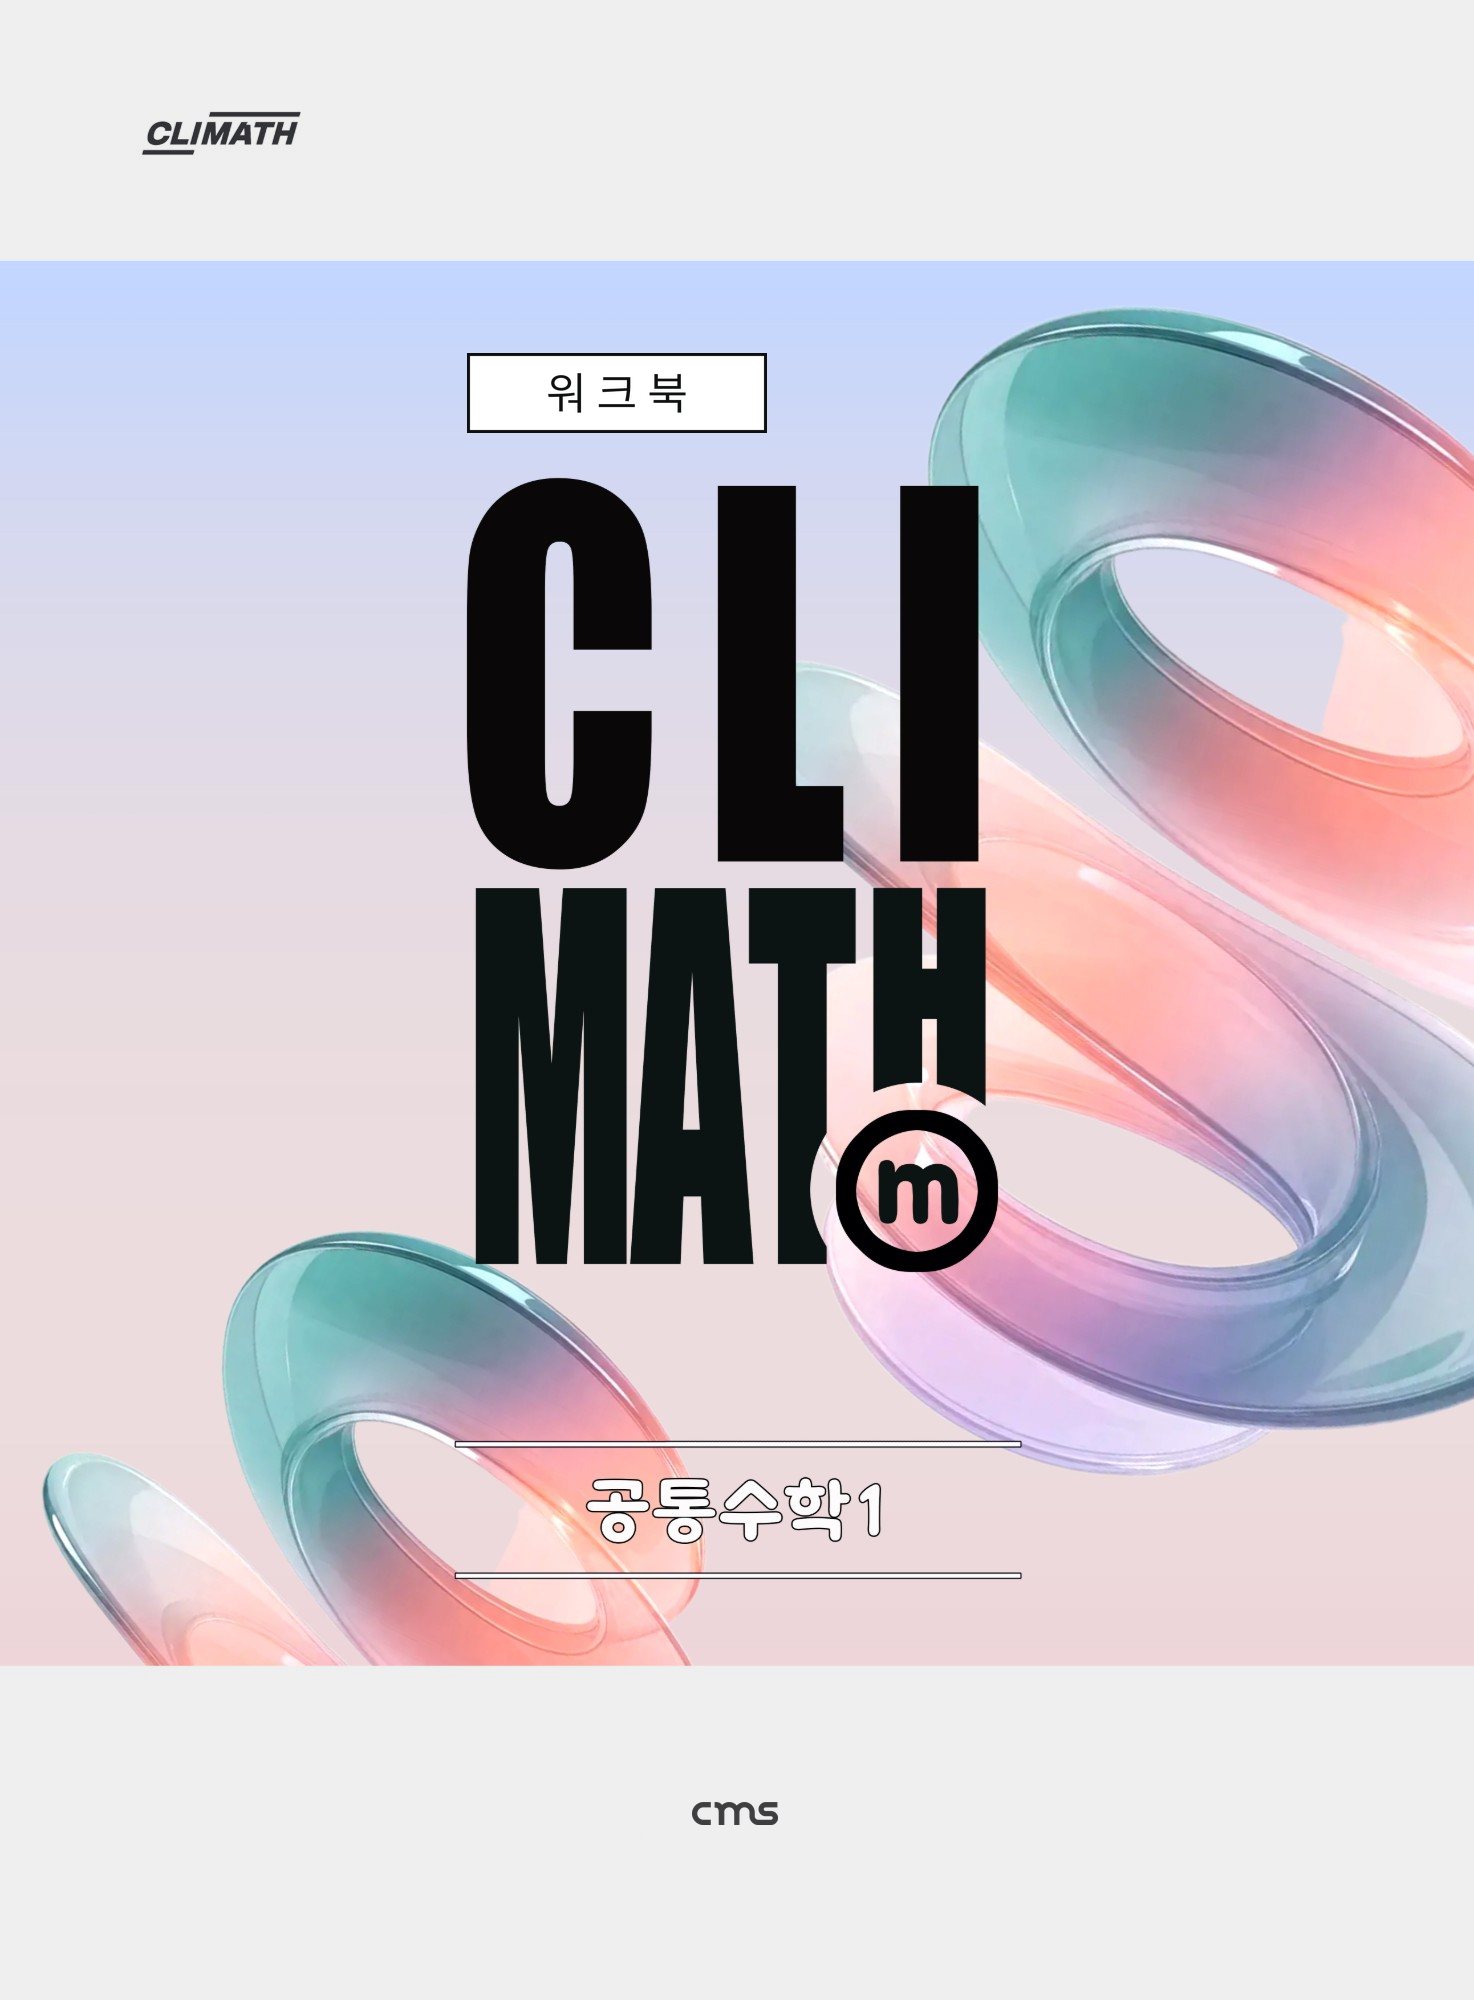
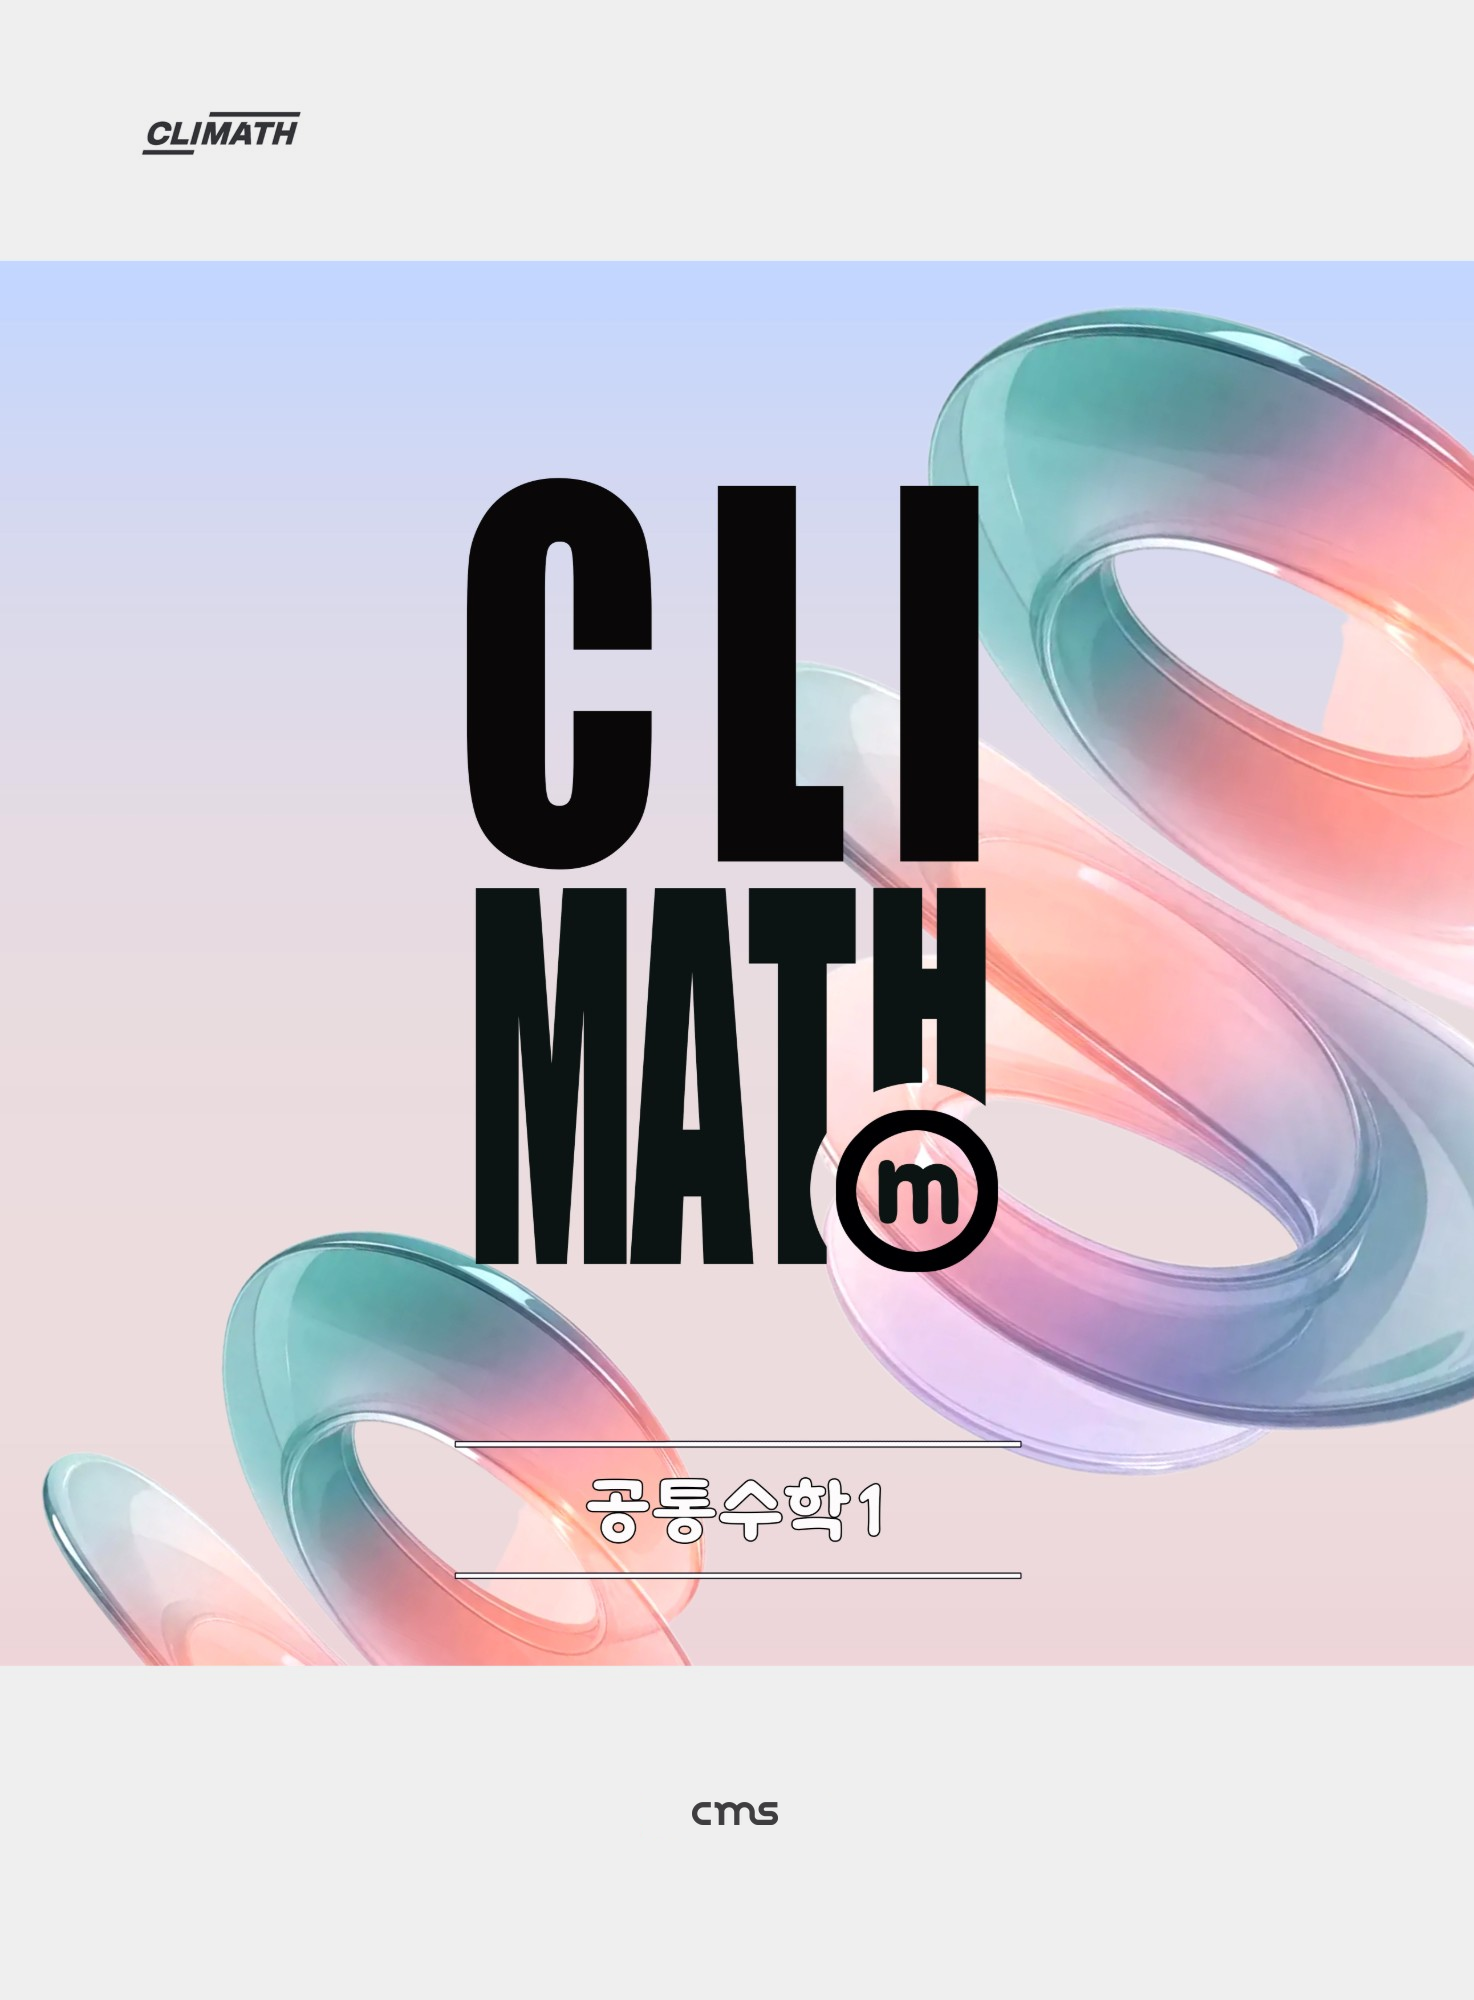
CLIMATH(m) 공통수학1 워크북 앞표지: 워크북 상자 뺌(책등은 그대로)
Claude-Session: https://claude.ai/code/session_014WGsHSxW1TsHk3SpmxydRw

Changed region(s): [[0.3121, 0.155, 0.5305, 0.217]]

diff --git a/유형문제집/도구/cover/climath_cover_m_wb.py b/유형문제집/도구/cover/climath_cover_m_wb.py
@@ -3,7 +3,7 @@
 python climath_cover_m_wb.py <표지 폴더> <원본 폴더> <Pretendard 폴더>
 - 사용자: 'CLIMATh(m) 공통수학1 워크북 표지 만들어줘'.
 - CLIMATH(m) 공통수학1 표지(앞표지·책등·원본 뒤표지)를 그대로 쓰고, CLIMATH(c) 워크북 표지(climath_cover_series.py)와 같은 표시를 더함:
-  · 앞표지: 'CLI' 제목 위(왼쪽 끝 맞춤)에 '워크북' 상자 — (c) 워크북 그림의 상자처럼 흰 바탕·검은 가는 테두리·검은 글자(Pretendard Regular, 글자 사이 띄움).
+  · 앞표지: (처음엔 'CLI' 위에 '워크북' 상자를 넣었으나 2026-11-26 사용자 '앞표지에 워크북 표시 없애, 책등은 남겨'로 뺌) — (m) 앞표지 그대로 + 종이색.
   · 책등: ⓜ 그대로, 그 아래 둥근 네모 상자 안 '워크북'((c) 워크북 책등과 같은 크기·자리).
   · 뒤표지: 원본 뒤표지(오른쪽 색 띠 = (m) 그라데이션) 그대로.
   · 세 장 모두 색 띠 밖 흰 종이를 #F0F0F0(×240/255)로 — (c) 워크북과 같음.
@@ -58,10 +58,10 @@ ink = np.maximum(supersample(draw_line, BW, BH), supersample(draw_txt, BW, BH))
 reg = a[by0:by0 + BH, X0:X0 + BW]
 reg = reg * (1 - fill[..., None]) + 255.0 * fill[..., None]
 reg = reg * (1 - ink[..., None]) + BLACK * ink[..., None]
-a[by0:by0 + BH, X0:X0 + BW] = reg
+# a[by0:by0 + BH, X0:X0 + BW] = reg   # 2026-11-26 사용자 '앞표지에 워크북 표시 없애, 책등은 남겨' → 앞표지 상자 넣지 않음
 fr = paper(Image.fromarray(a.clip(0, 255).astype(np.uint8)), (0, 260, fr.width, 1666))
 fr.save(os.path.join(CDIR, TAG + "_앞표지.png"))
-print("앞표지 상자", (X0, by0, X0 + BW - 1, by0 + BH - 1))
+print("앞표지: 워크북 상자 없음(색 띠 밖 종이색만)")
 
 # ---------------------------------------------------------------- 책등: ⓜ 아래 둥근 네모 상자 + '워크북'
 sp = np.asarray(Image.open(os.path.join(CDIR, "CLIMATH_공통수학1_책등.png")).convert("RGB")).astype(float)
